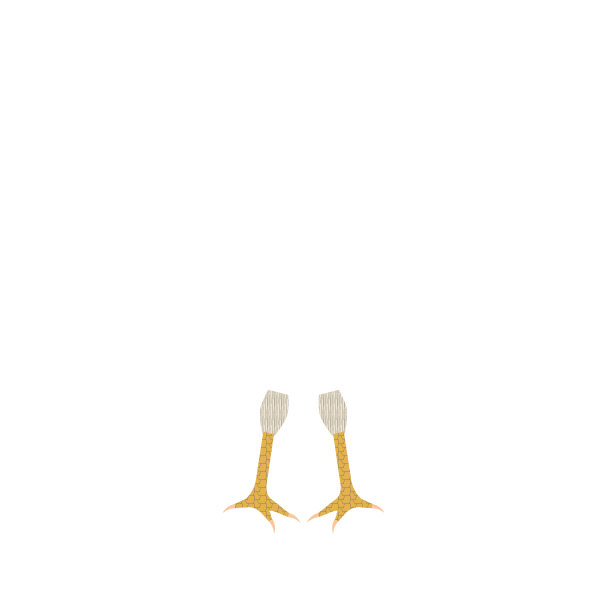
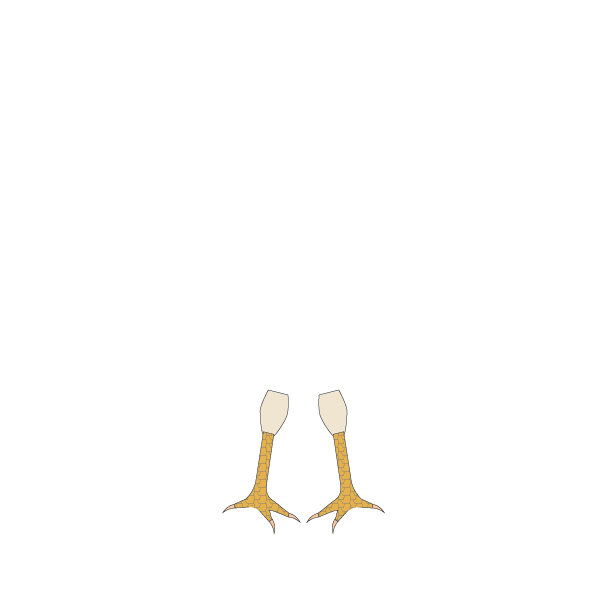
more customisations

diff --git a/php/customise_new.php b/php/customise_new.php
@@ -44,7 +44,7 @@
             "hat" => 'hat-christmas.png',
             "mouth" => 'mouth-smile.png',
             "pants" => 'pant-female-normalBlack.png',
-            "legs" => 'legs-chicken.png',
+            "legs" => 'legs-human-normal-pale.png',
             "background" => 'background-stage1.png'
         );
 
